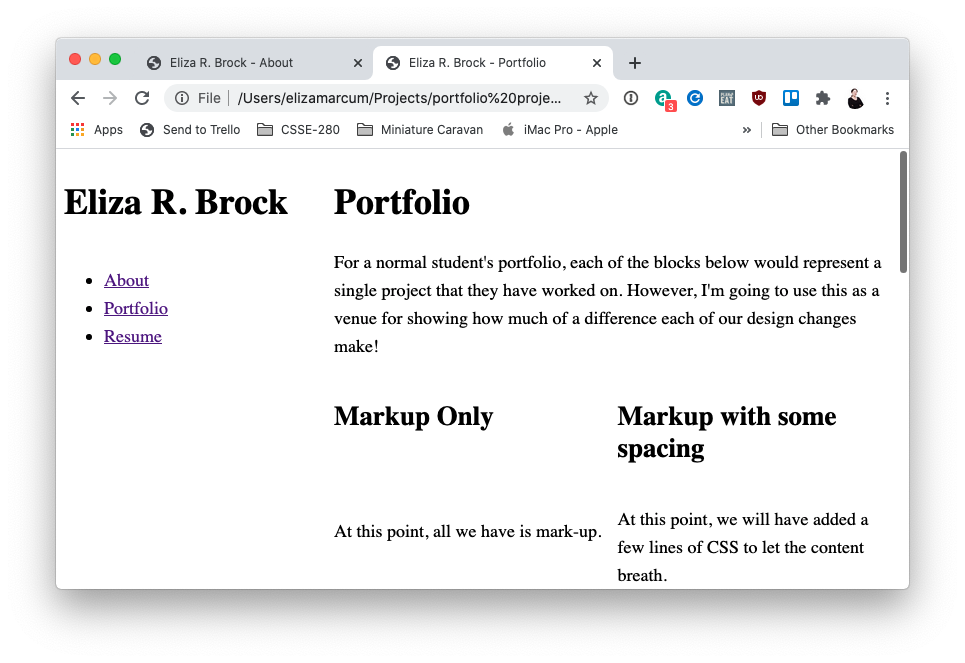
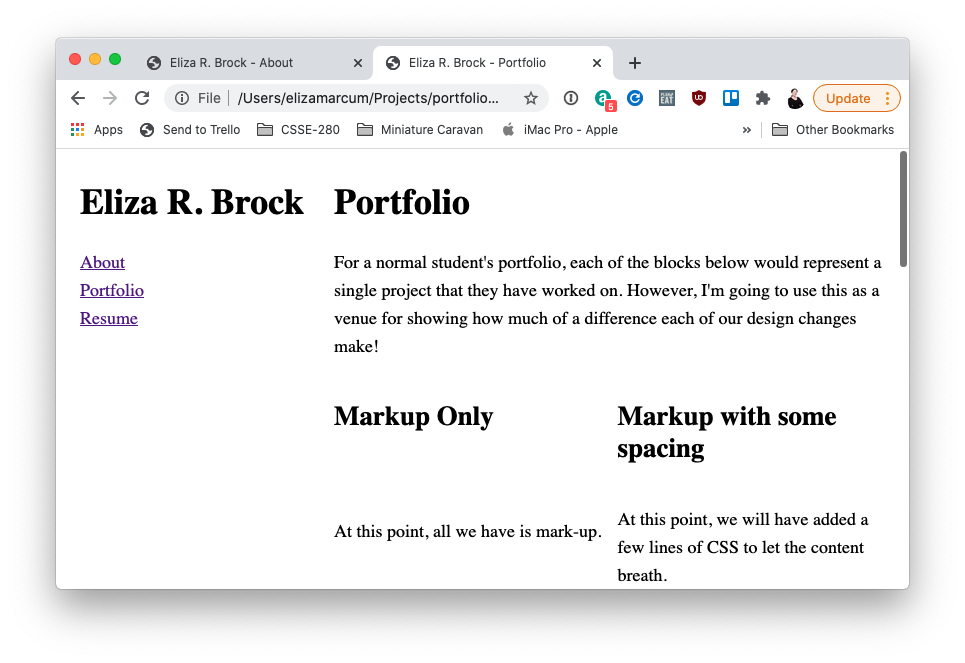
Taking a step back to tweak step 3

Changed region(s): [[0.4974, 0.1207, 0.9326, 0.181], [0.0622, 0.2715, 0.3109, 0.3318], [0.0622, 0.3922, 0.1865, 0.543]]

diff --git a/styles/main.css b/styles/main.css
@@ -22,13 +22,21 @@ body {
     "head main"
     "nav main"
     "nav foot";
-  background-image: url("../images/np_Colorful leaves from amber to green bordering side of light background_48djK4_free.jpg");
-  background-position: right top;
-  background-size: cover;
 }
 
-body > header { grid-area: head; }
-body > nav { grid-area: nav; }
+body > header {
+  grid-area: head;
+  padding-left: 1rem;
+}
+body > nav {
+  grid-area: nav;
+  padding-left: 1rem;
+}
+body > nav ul {
+  margin-top: 0;
+  padding: 0;
+  list-style-type: none;
+}
 body > main { grid-area: main; }
 body > footer { grid-area: foot; }
 body > main img { max-width: 100%; }
